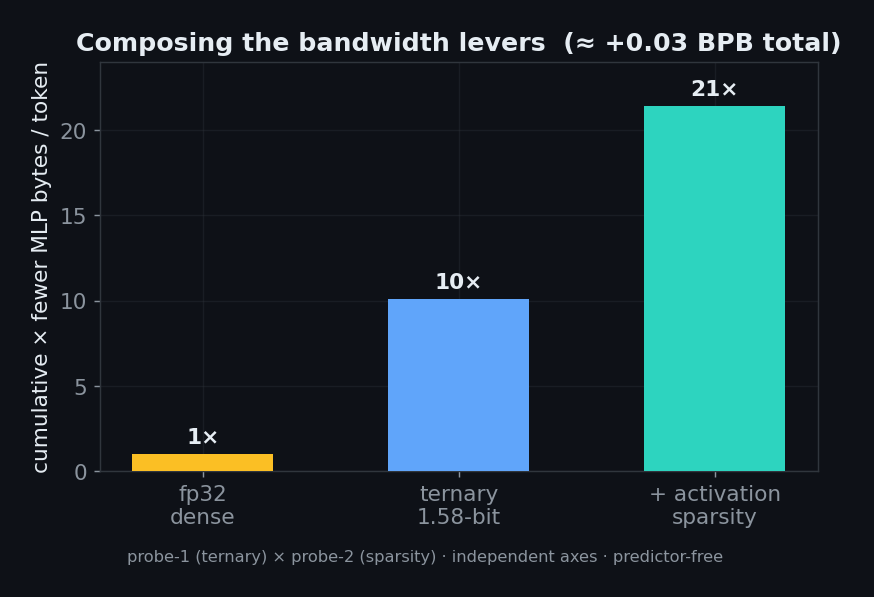
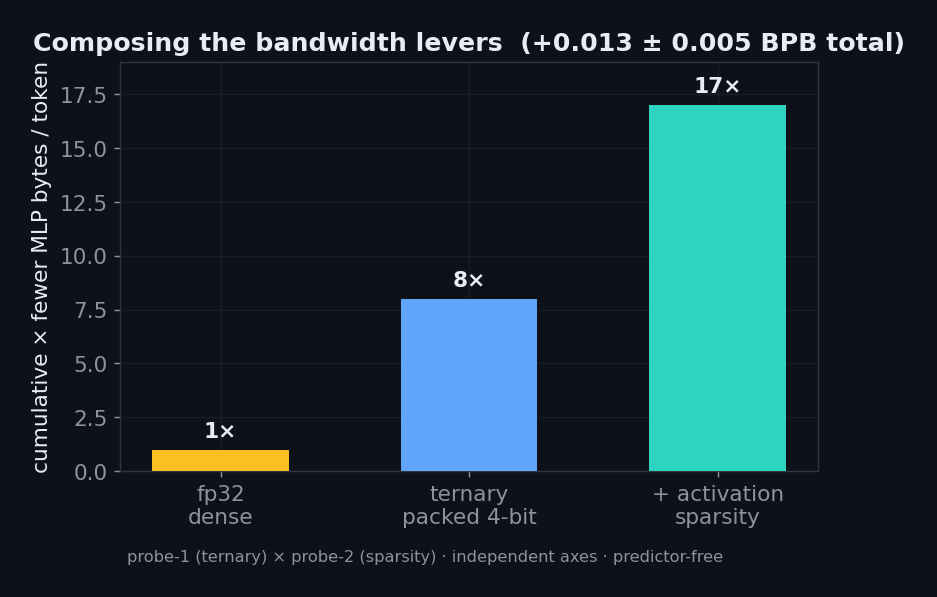
public: retire the 21x compound claim -- 17x, and reconstructible from its constants
The compound bandwidth claim could not be rebuilt from the constants of the
document that carried it, which is the defect regardless of whether the number
was flattering. Corrected everywhere it appears in public: README section 2,
HANDOFF, and the chart the README embeds.

Origin found rather than deflated in silence. scripts/make_readme_charts.py
carried factor = [1.0, 10.1, 21.4], and 10.1 = 2 B/weight divided by 0.198
B/weight: an fp16 numerator against the IDEAL 1.585-bit packing. It took its
baseline from a precision this chart does not plot and its density from a
packing the engine does not use. The two errors pulled opposite ways -- half
from fp16, times 2.52 from ideal-vs-real -- leaving a net 1.26x overstatement,
which is exactly the unexplained 1.26 the audit isolated. Now [1.0, 8.0, 17.0]:
4 B / 0.5 B = 8x, x 2.12x measured sparsity = 16.96x.

Two further defects found in the same chart while fixing it, both the same
family:
- the title claimed "+0.03 BPB", a figure README section 2 itself retires as a
  naive sum of deltas measured at different step counts. Now the R1
  matched-convergence value, +0.013 +/- 0.005.
- the middle bar was labelled "1.58-bit" while showing the 8x that comes from
  the real 4-bit packing. A reader computing 32/1.58 = 20 could not reconstruct
  the bar -- which is how the 21x happened in the first place. Labelled "packed
  4-bit", so every step is readable off the chart.
[…]

diff --git a/scripts/make_readme_charts.py b/scripts/make_readme_charts.py
@@ -159,16 +159,30 @@ def chart_predict_sparsity():
 
 # ------------------------------------------------- 5. compound bytes/weight reduction
 def chart_compound():
-    stages = ["fp32\ndense", "ternary\n1.58-bit", "+ activation\nsparsity"]
-    factor = [1.0, 10.1, 21.4]   # cumulative × fewer MLP bytes/token vs fp32-dense
+    # The bar label names the packing that produces the factor, not the information-theoretic ideal:
+    # the 8× comes from the engine's real 4-bit codes. Labelling it "1.58-bit" next to an 8× bar invites
+    # the reader to compute 32/1.58 = 20 and fail to reconstruct it -- which is how the 21× happened.
+    stages = ["fp32\ndense", "ternary\npacked 4-bit", "+ activation\nsparsity"]
+    # Cumulative × fewer MLP bytes/token vs fp32-dense, each step reconstructible from a declared constant:
+    #   fp32 4 B/weight ÷ 0.5 B/weight (the engine's REAL 4-bit base-3 g=2 packing) = 8.0×
+    #   × 2.12× predictor-free activation sparsity (probe-2)                        = 16.96× → 17×
+    # The previous [1.0, 10.1, 21.4] was a mixed-basis error, declared rather than quietly deflated:
+    # 10.1 = 2 B/weight (fp16!) ÷ 0.198 B/weight (the IDEAL 1.585-bit packing), so it took its numerator
+    # from a baseline this chart does not plot and its denominator from a packing the engine does not use.
+    # The two mistakes pulled opposite ways (÷2 and ×2.52) and left a net 1.26× overstatement — which is
+    # exactly the unexplained 1.26 the audit isolated. Corrected 2026-07-30.
+    factor = [1.0, 8.0, 17.0]
     fig, ax = plt.subplots(figsize=(6.4, 4.3))
     bars = ax.bar(stages, factor, color=[AMBER, BLUE, TEAL], width=0.55, zorder=3)
     for b, f in zip(bars, factor):
         ax.text(b.get_x()+b.get_width()/2, f+0.4, f"{f:.0f}×" if f > 1 else "1×",
                 ha="center", va="bottom", color=INK, fontweight="bold")
     ax.set_ylabel("cumulative × fewer MLP bytes / token")
-    ax.set_ylim(0, 24)
-    ax.set_title("Composing the bandwidth levers  (≈ +0.03 BPB total)")
+    ax.set_ylim(0, 19)
+    # Second defect in the same chart, same family: the title carried "+0.03 BPB", which README §2 itself
+    # retires as "only a naive sum of two deltas measured separately at different step counts". The R1
+    # matched-convergence calibration prices the combined ternary+dReLU cost at +0.013 ± 0.005.
+    ax.set_title("Composing the bandwidth levers  (+0.013 ± 0.005 BPB total)")
     _finish(fig, "bench_compound.png",
             "probe-1 (ternary) × probe-2 (sparsity) · independent axes · predictor-free")
 

diff --git a/docs/SCALEUP_ARCHITECTURE.md b/docs/SCALEUP_ARCHITECTURE.md
@@ -26,7 +26,11 @@ Batch-1 decode is memory-bandwidth-bound: `tok/s ≈ (eff_bw × tokens_per_strea
 | eff_bw ↑ | active-slice fits L3 | **LOCKED** (Probe-3) | **~3×** step (88→28 GB/s) at the **16MB L3 cliff**; compute-bound while resident |
 | tokens_per_stream ↑ | block-verify chassis (n-gram draft) | **MEASURED, CONDITIONAL** (Phase 63) | mechanism proven: streamed bytes/token = AR ÷ tpp exactly (tpp 1.75 code / 2.6-2.8 TS); pays only where *shared*-streamed traffic dominates compute (**C/T ≲ 0.25-0.30**; at 8.3M C/T=1.6 → scoped out); routed/expert pools do **not** amortize (i.i.d. unions, §3.8) |
 
-Ternary × sparsity already compose to **~21× fewer MLP bytes/token vs fp32-dense** at ~+0.03 BPB. The honest compound across all terms is **one-to-two orders of magnitude over dense-int4** — *not* a naive product; do not anchor on a single number.
+Ternary × sparsity compose to **~17× fewer MLP bytes/token vs fp32-dense** at ~+0.03 BPB — **and the number is written here as its derivation, because the previous figure (~21×) could not be reconstructed from this table's own constants**: 4 B/weight ÷ 0.5 B/weight (row 1) = **8×**, × **2.12×** (row 2) = **16.96×**. The 21× required an unexplained further 1.26 and is retired; corrected 2026-07-30 by an audit of this document against itself, and deflated rather than defended. *(Projection, not measured, and marked as such: trit-packing at 5 trits per byte-pair — 1.6 bits/weight, 0.2 B — would take the first factor to 20× and the product to ~42×. That is engine-v2 work, not built.)*
+
+**The second factor is LEARNED, not structural — stated here because it changes how it may be projected.** Two i.i.d. gates would yield 75% hidden sparsity; the measured 92% (at 79% gate sparsity) implies `P(u ≤ 0 | g > 0) ≈ 0.62`, i.e. the model shifted *both* branches negative with no sparsity penalty in the loss. It is emergent behaviour of a trained network, not a property of the architecture, so **it is re-measured at every rung and never assumed to transfer** — a record-only activation-sparsity read at each stage exit is enough, and it can be taken offline from the saved checkpoints without touching the training path.
+
+The honest compound across all terms remains **one-to-two orders of magnitude over dense-int4** — *not* a naive product; do not anchor on a single number.
 
 **The ρ-law (measured, foundational):** random-DRAM access vs sequential-cache-resident = **~14× worst-case** on Zen2 (~2× in-cache, ~4.3× in DRAM). **Rule: every byte path is sequential and cache-resident; no unnecessary random gather.** This single law killed SIMVQ, vector-codebook weight-quant, ANN graphs, and IMI — and it is why the recall tier uses compact in-cache codes, never raw-vector gather.
 
@@ -50,7 +54,7 @@ Everything large-model-specific is sized by this: the MoE granularity, the spars
 
 ```
    ┌─────────────────── THE THINKING (small, ternary, cache-resident) ──────────────────┐
-   │  SSM backbone (selective/diagonal, HiPPO) — O(1) state, bandwidth-light             │
+   │  SSM backbone (selective/diagonal, S4D-Real) — O(1) state, bandwidth-light             │
    │  + gated-ternary MLP (dReLU-sparse) — the byte-sink, attacked                       │
    │  + depth via REUSE of one cache-resident block (adaptive halting) — depth, no bytes │
    └───────────────┬──────────────────────────────────────────────────┬─────────────────┘
@@ -67,7 +71,7 @@ Everything large-model-specific is sized by this: the MoE granularity, the spars
 ```
 
 ### 3.1 Backbone — SSM (LOCKED)
-Selective state-space (diagonal recurrence + HiPPO init), O(1) recurrent state, no growing KV. Bandwidth-light by construction; the bytes concentrate in the MLP/head, which is where the attack lands. The SSM state is also the *prefetch/predict oracle* (§3.6) — a compressed running summary computed early and cheaply each token.
+Selective state-space (diagonal recurrence + **S4D-Real init**, λ_j = −j — the Mamba-1 default; the docs previously said "HiPPO init", which names a different initialization family. Implementation of record: `phase55_ssm.py:54`), O(1) recurrent state, no growing KV. Bandwidth-light by construction; the bytes concentrate in the MLP/head, which is where the attack lands. The SSM state is also the *prefetch/predict oracle* (§3.6) — a compressed running summary computed early and cheaply each token.
 
 ### 3.2 MLP — gated, ternary, sparse (LOCKED mechanism)
 Gated (SwiGLU-style) MLP — **not** the current plain `up→SiLU→down`. The gate-first structure lets gate-sparsity skip up+down predictor-free (Probe-2: 2.12×). Weights native 1.58-bit ternary via pshufb-LUT (Probe-1). dReLU activation for high native sparsity. *Note:* gated adds the gate matrix (more params) but they are ternary and the active set shrinks — net per-token active bytes win. Plain-vs-gated final call pending the predictor (§3.6).

diff --git a/README.md b/README.md
@@ -59,7 +59,7 @@ Trained from scratch (QAT, not post-training), the ternary MLP costs only **+0.0
 
 ### 2 · Activation sparsity and the L3 cliff
 
-A gated **dReLU** MLP is naturally sparse — up to **92%** of hidden units are inactive per token — at essentially zero quality cost (+0.0006 BPB, matched training). Combined with ternary weights, this compounds along **independent axes** to roughly **21× fewer MLP bytes per token** versus fp32-dense. A matched, seed-averaged calibration (foundation vs a plain fp32-SiLU recipe) prices the *combined* quality cost of going both ternary **and** dReLU-sparse at **+0.013 ± 0.005 BPB** — a small cost, but at ~2.5σ over the measured seeds most likely real, not noise. This replaces the earlier "+0.03", which was only a naive sum of two deltas measured separately at different step counts. The dReLU half is separately ~free (+0.0006); the combined figure is essentially the ternary-weight cost, consistent with §1 and below its undertrained upper bound as expected at matched convergence.
+A gated **dReLU** MLP is naturally sparse — up to **92%** of hidden units are inactive per token — at essentially zero quality cost (+0.0006 BPB, matched training). Combined with ternary weights, this compounds along **independent axes** to roughly **17× fewer MLP bytes per token** versus fp32-dense — written here as its derivation, so it can be checked without trusting us: 4 B/weight ÷ 0.5 B/weight (the engine's real 4-bit packing) = **8×**, × **2.12×** = **16.96×**. This corrects an earlier "21×" (2026-07-30), which mixed an fp16 baseline with the *ideal* 1.58-bit packing the engine does not yet use; the two errors pulled opposite ways and left it 1.26× too high. A matched, seed-averaged calibration (foundation vs a plain fp32-SiLU recipe) prices the *combined* quality cost of going both ternary **and** dReLU-sparse at **+0.013 ± 0.005 BPB** — a small cost, but at ~2.5σ over the measured seeds most likely real, not noise. This replaces the earlier "+0.03", which was only a naive sum of two deltas measured separately at different step counts. The dReLU half is separately ~free (+0.0006); the combined figure is essentially the ternary-weight cost, consistent with §1 and below its undertrained upper bound as expected at matched convergence.
 
 > **Scale context.** QAT ternary literature shows the quality gap shrinking with scale: BitNet b1.58 matches FP16 from 3B, and Spectra/TriLM measures a small but nonzero gap below 1B (smallest published model: 99M). Our +0.013 ± 0.005 BPB at ~8.3M sits at the small-scale end of this trend, ~12× below the smallest published ternary LM; no published data exists below 99M. Post-training ternarization does not follow this trend (PT²-LLM: ~2× PPL at 7B–70B), supporting the QAT-from-scratch choice.
 

diff --git a/HANDOFF.md b/HANDOFF.md
@@ -9,7 +9,7 @@ Last updated: 2026-07-03 — **The weight-streaming half of the thesis is valida
 The other half of the bandwidth equation: the model's own weights. Three independent multipliers, each measured on the real 3600X.
 
 - **Probe-1 — ternary (FINDING-1, validated).** A `pshufb` byte-LUT ternary kernel runs **4.2–5.0×** faster than fp32 matvec on Zen 2, **bit-exact** vs a scalar integer reference, and the "fewer bits → faster" signature is monotone (the anti-int8 fingerprint; int8 dequant *stalls* without VNNI). Quality: a ternary MLP trained from scratch (QAT) costs **+0.028 BPB** at ~8.3M on TinyStories — an *upper bound* (the ternary run was still descending; single-seed; MLP-only, backbone kept fp32). int8-VNNI is officially replaced by the LUT path on our silicon.
-- **Probe-2 — activation sparsity (FINDING-2, validated).** A gated **dReLU** MLP reaches **92% hidden / 79% gate** sparsity at **+0.0006 BPB** (matched 4k-step A/B — quality is ~free). Predictor-free skippable = **2.12×** shrink. Composes with ternary along an independent axis → ~21× fewer MLP bytes/token vs fp32-dense (a composition of separately-measured deltas; matched-convergence A/B queued).
+- **Probe-2 — activation sparsity (FINDING-2, validated).** A gated **dReLU** MLP reaches **92% hidden / 79% gate** sparsity at **+0.0006 BPB** (matched 4k-step A/B — quality is ~free). Predictor-free skippable = **2.12×** shrink. Composes with ternary along an independent axis → **~17×** fewer MLP bytes/token vs fp32-dense (4 B ÷ 0.5 B = 8× × 2.12×; corrected 2026-07-30 from a mixed-basis "21×") (a composition of separately-measured deltas; matched-convergence A/B queued).
 - **Probe-3 — cache residency (FINDING-4, measured).** A synthetic working-set sweep finds a sharp bandwidth cliff at **16 MB = L3-per-CCX** (compute-bound ~100 GB/s below, ~28 GB/s DRAM floor above). This is the **keystone constraint**. Unifying law, proven here (SIMVQ death vs IVFPQ win): **no unnecessary random gather — cache-residency / sequential access is the feasibility gate on every byte-reduction (the ρ-law).**
 
 ## Phase 58 — the predictor / K3 (2026-06-30)
